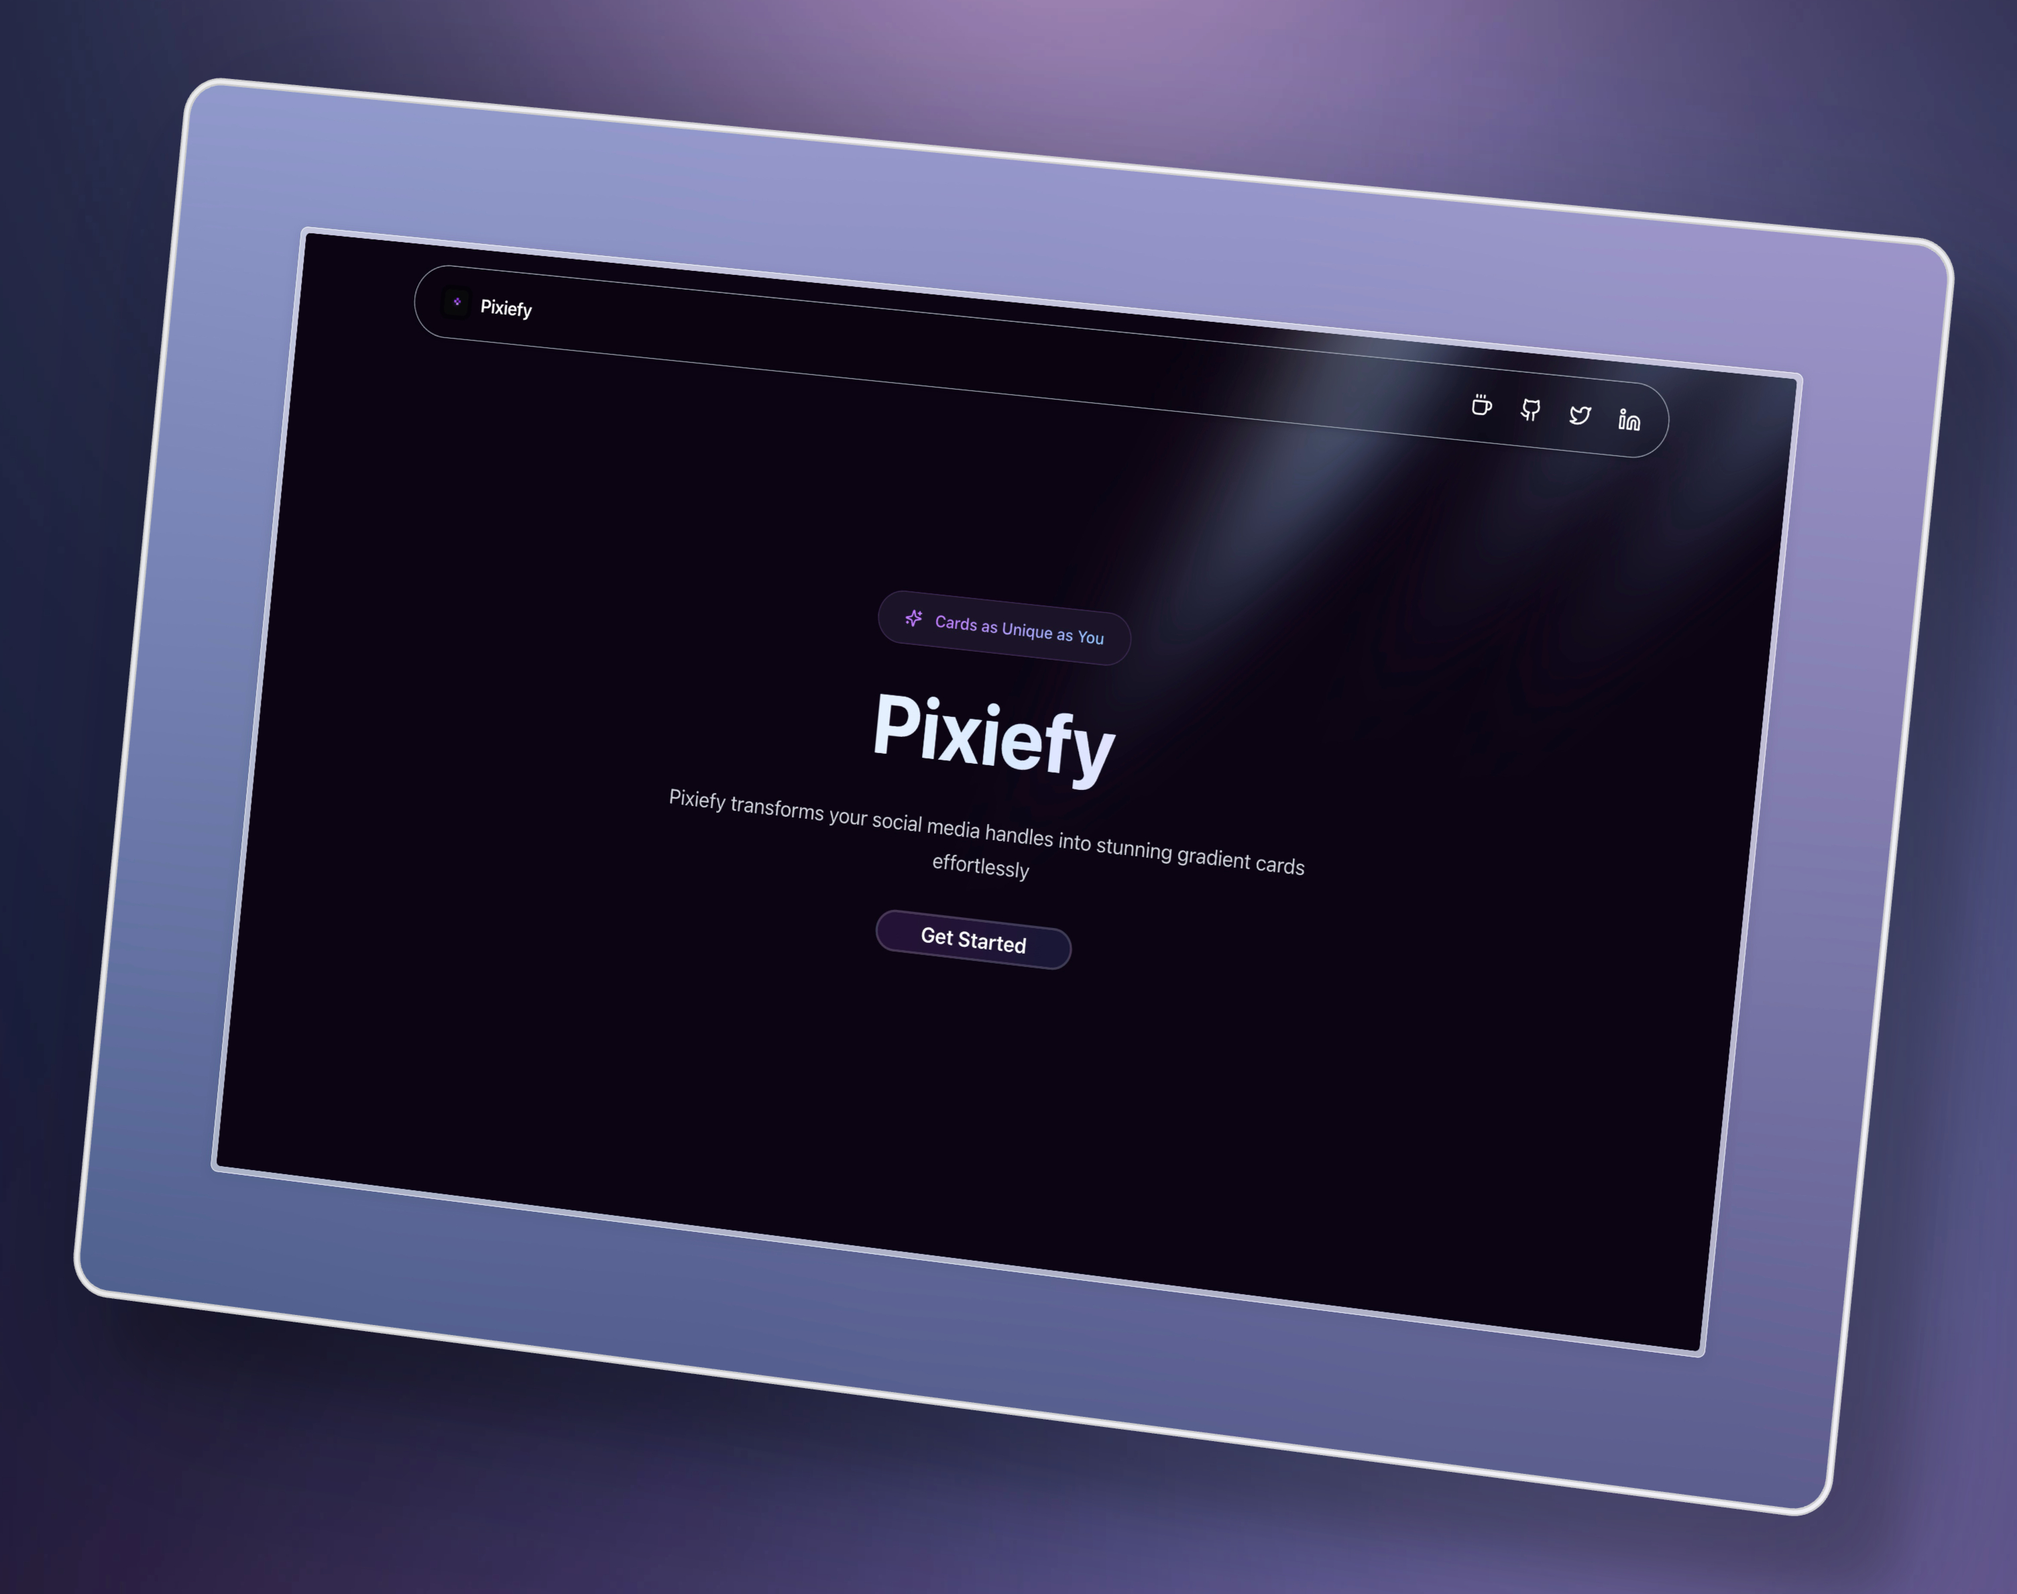
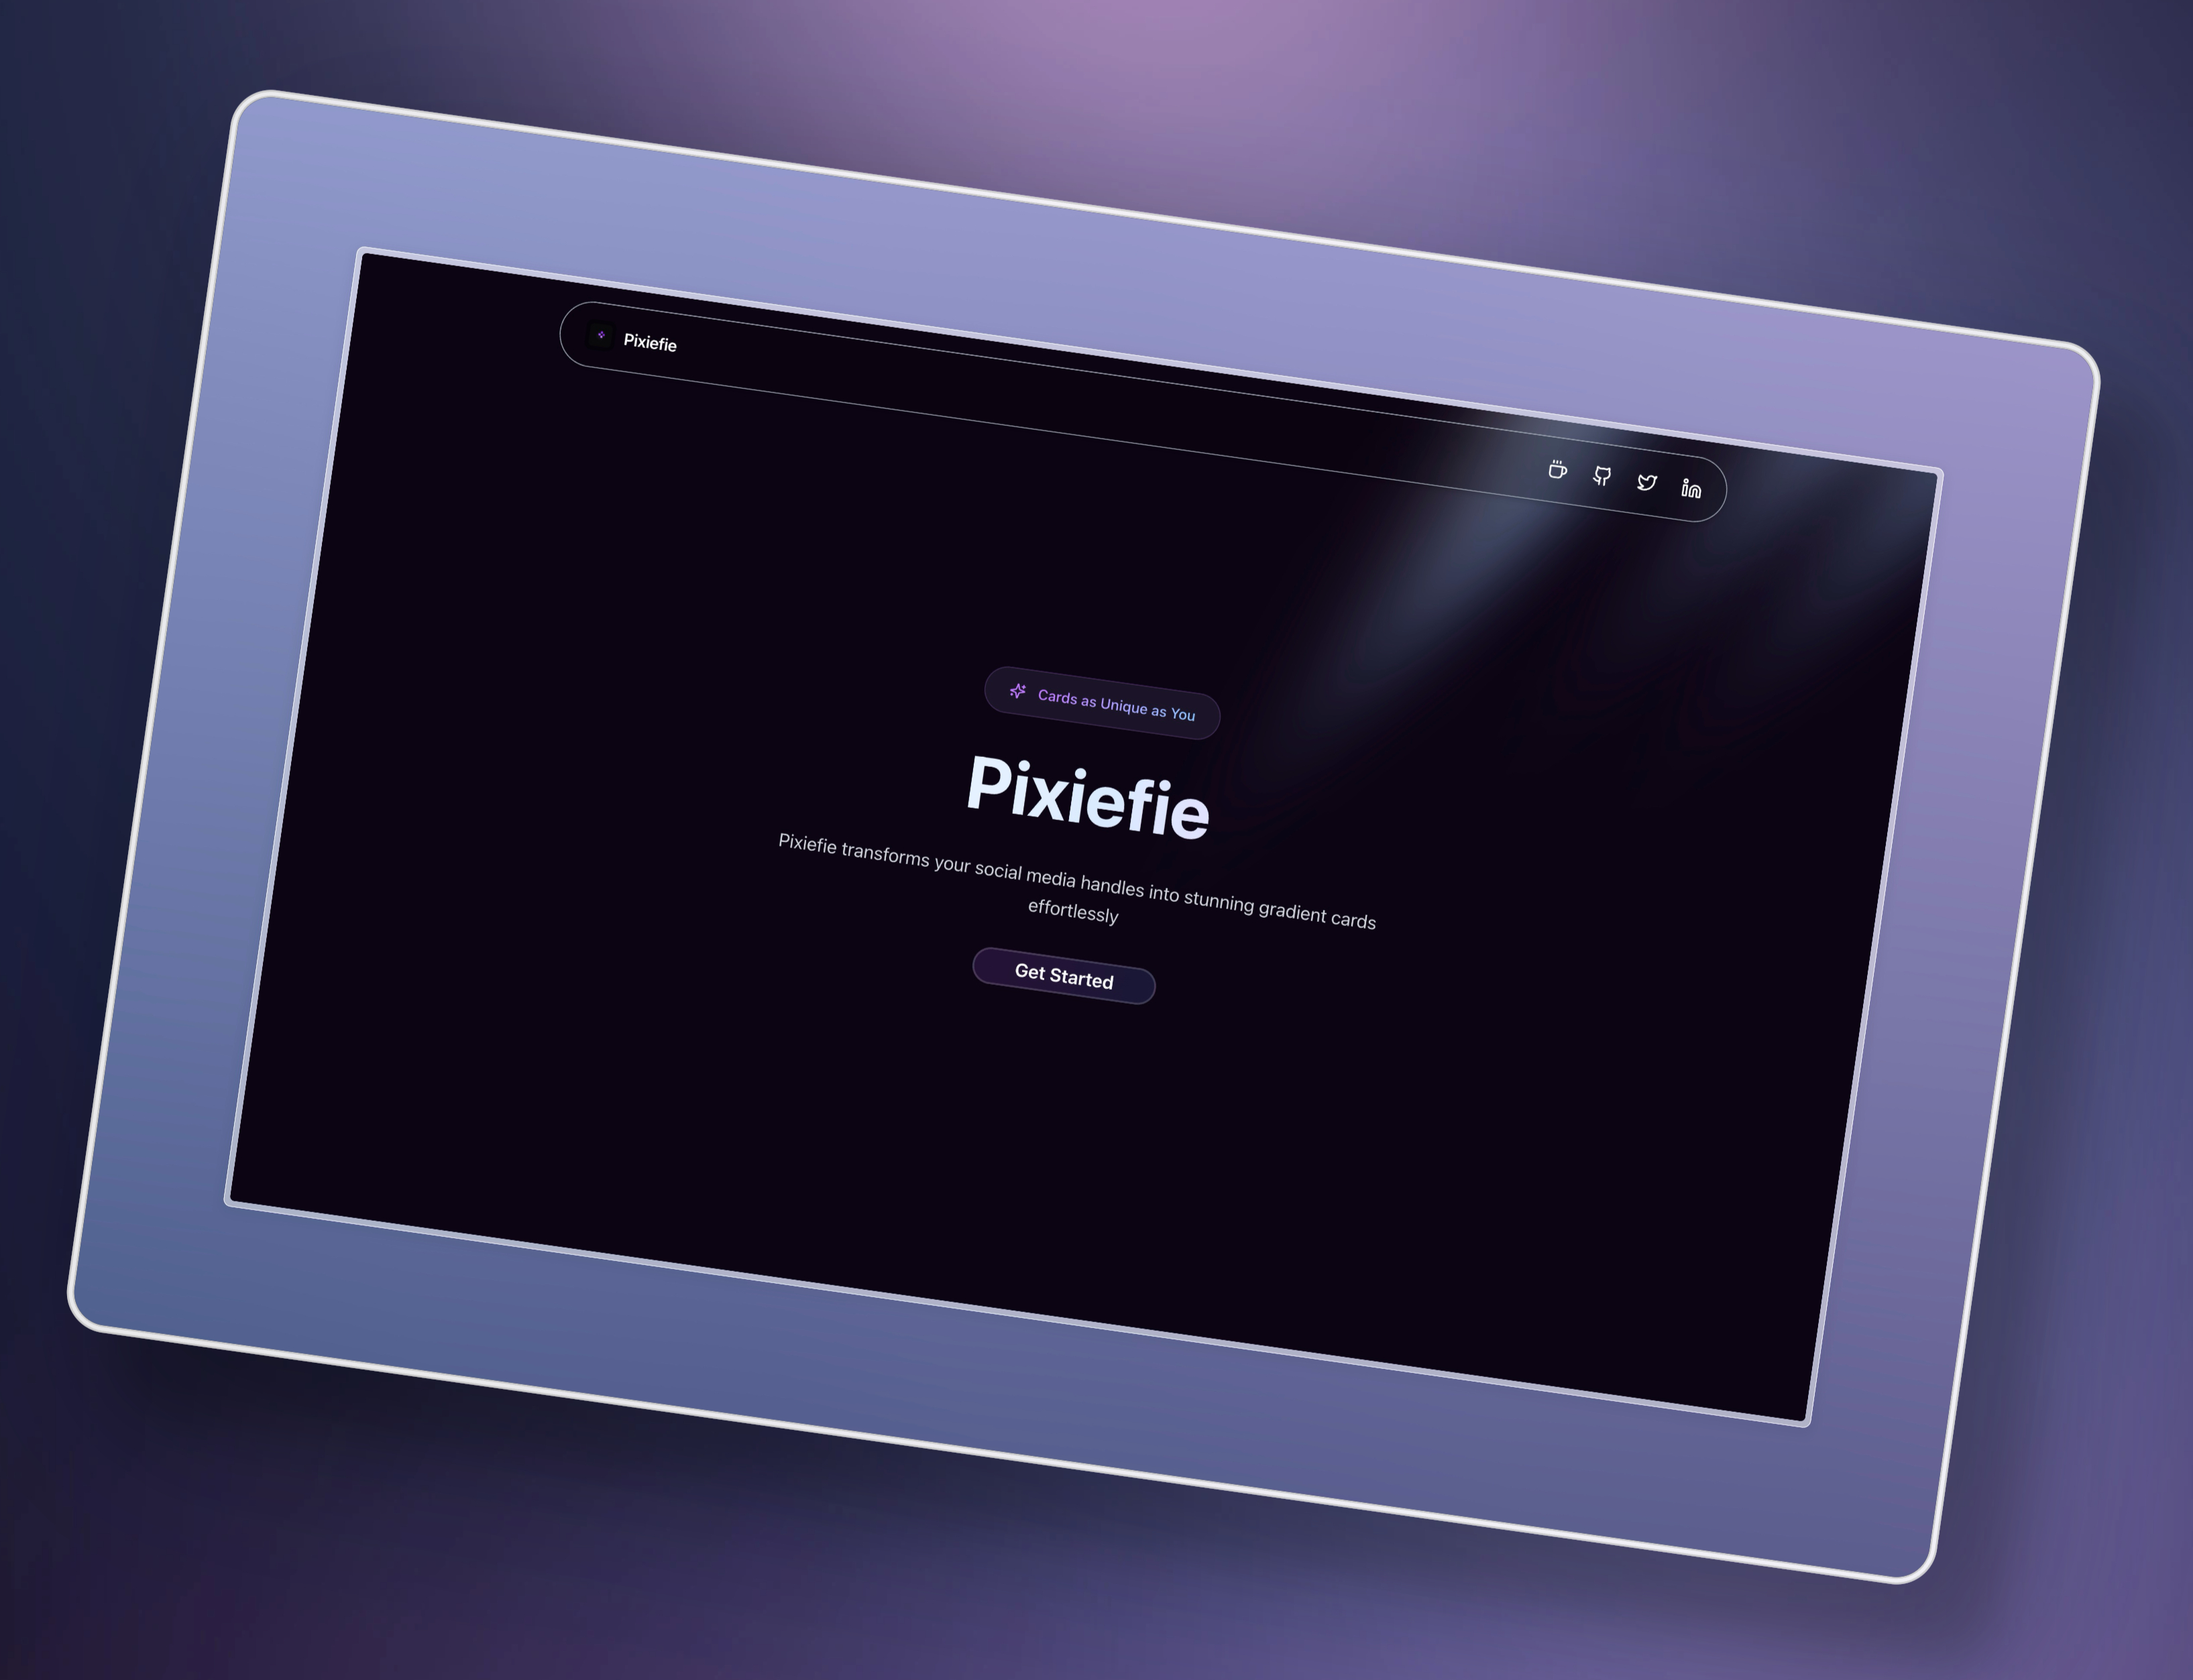
docs: name update

diff --git a/README.md b/README.md
@@ -1,9 +1,9 @@
 
 ---
 
-# Pixiefy
+# Pixiefie
 
-![Pixiefy](./public/Drop/Landing.png)
+![Pixiefie](./public/Drop/Landing.png)
 
 A lightweight web app to generate beautiful gradient social-media cards in seconds.
 
@@ -20,8 +20,8 @@ A lightweight web app to generate beautiful gradient social-media cards in secon
 I. Clone the repository
 
 ```bash
-git clone https://github.com/Sabique-Islam/pixiefy
-cd pixiefy
+git clone https://github.com/Sabique-Islam/pixiefie
+cd pixiefie
 ```
 
 II. Configure environment file
